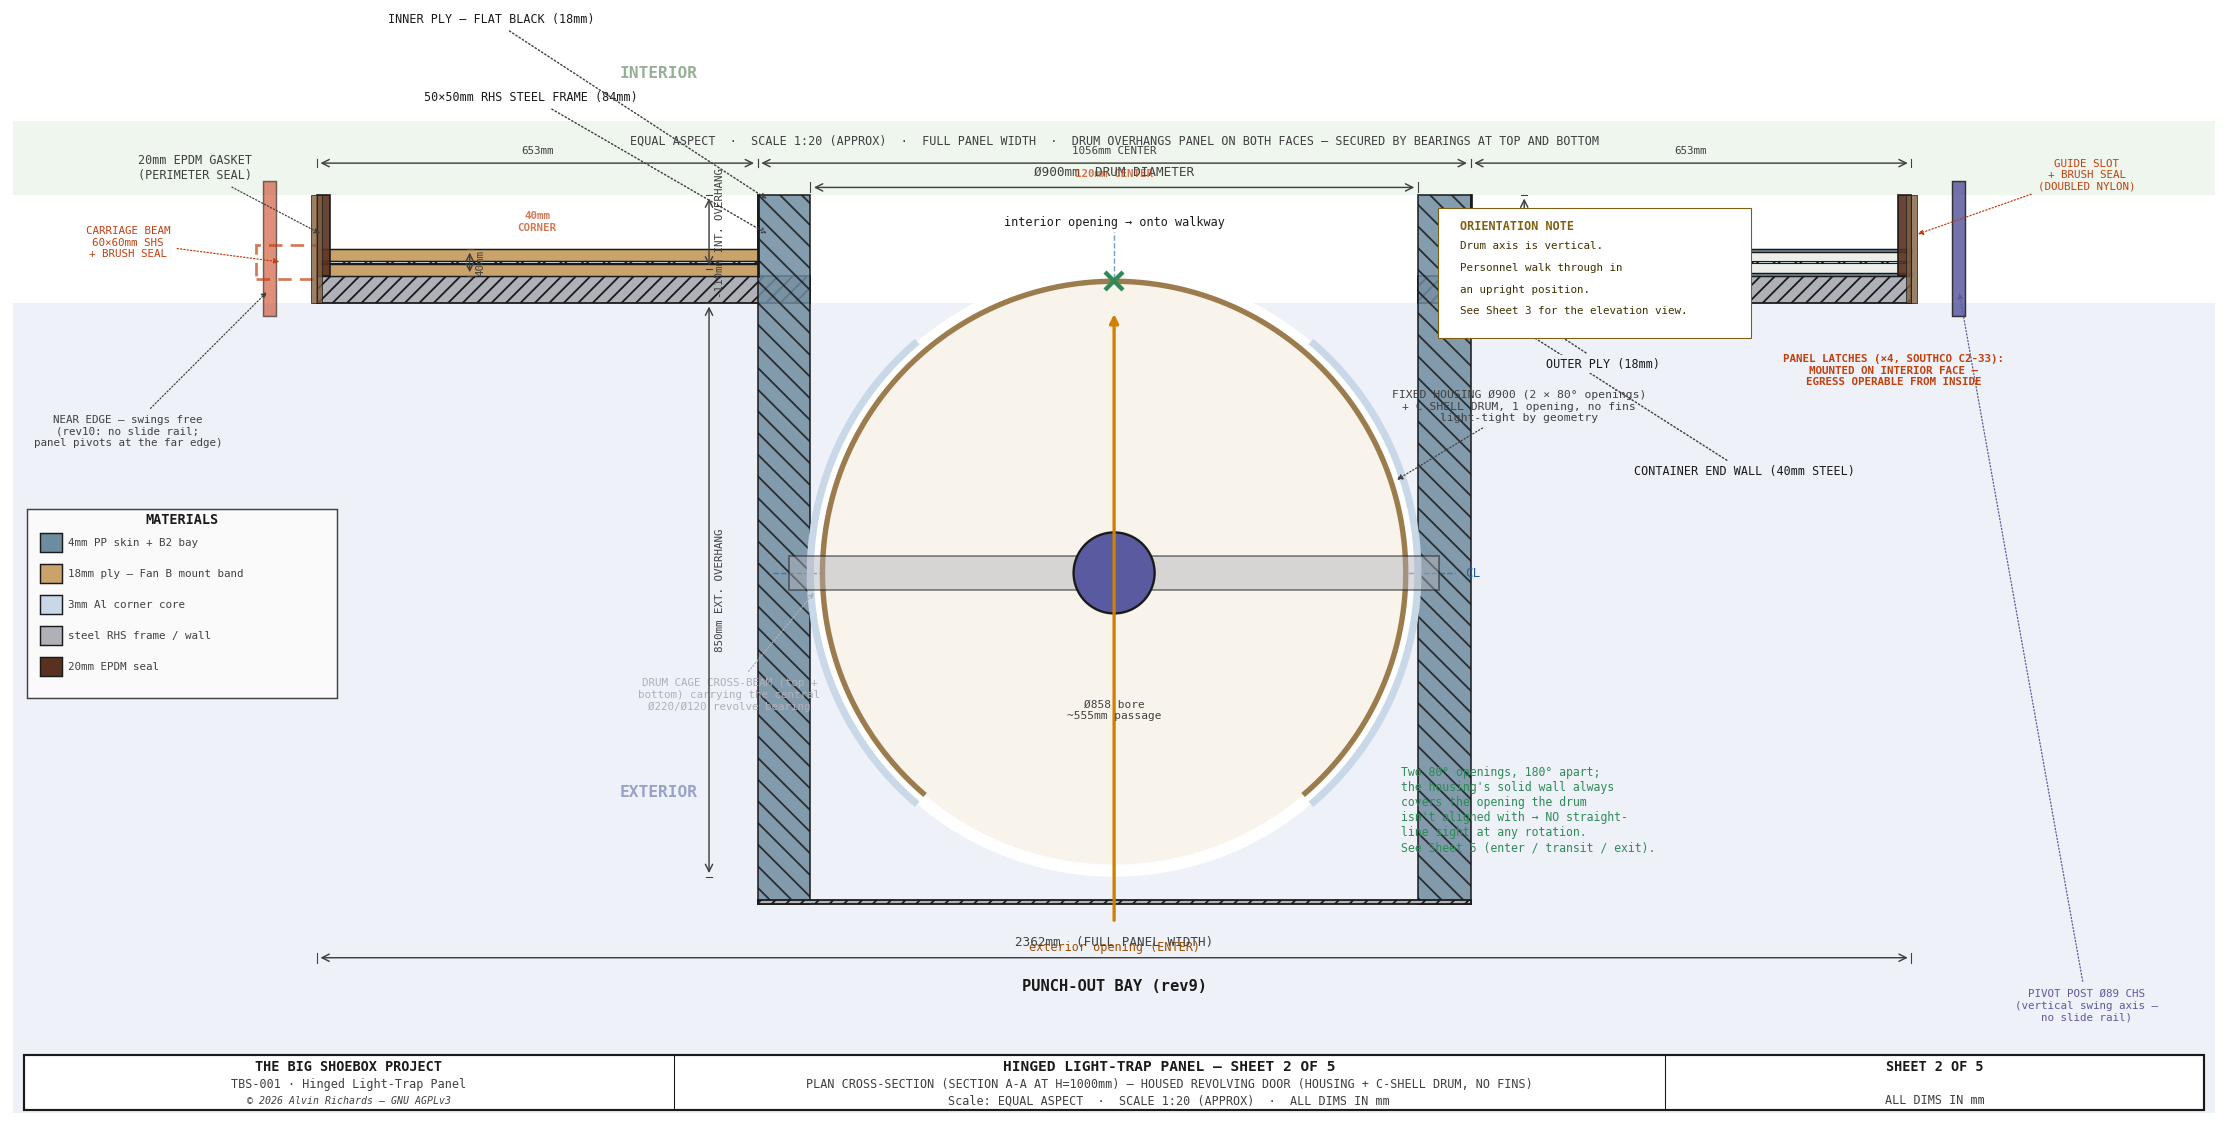
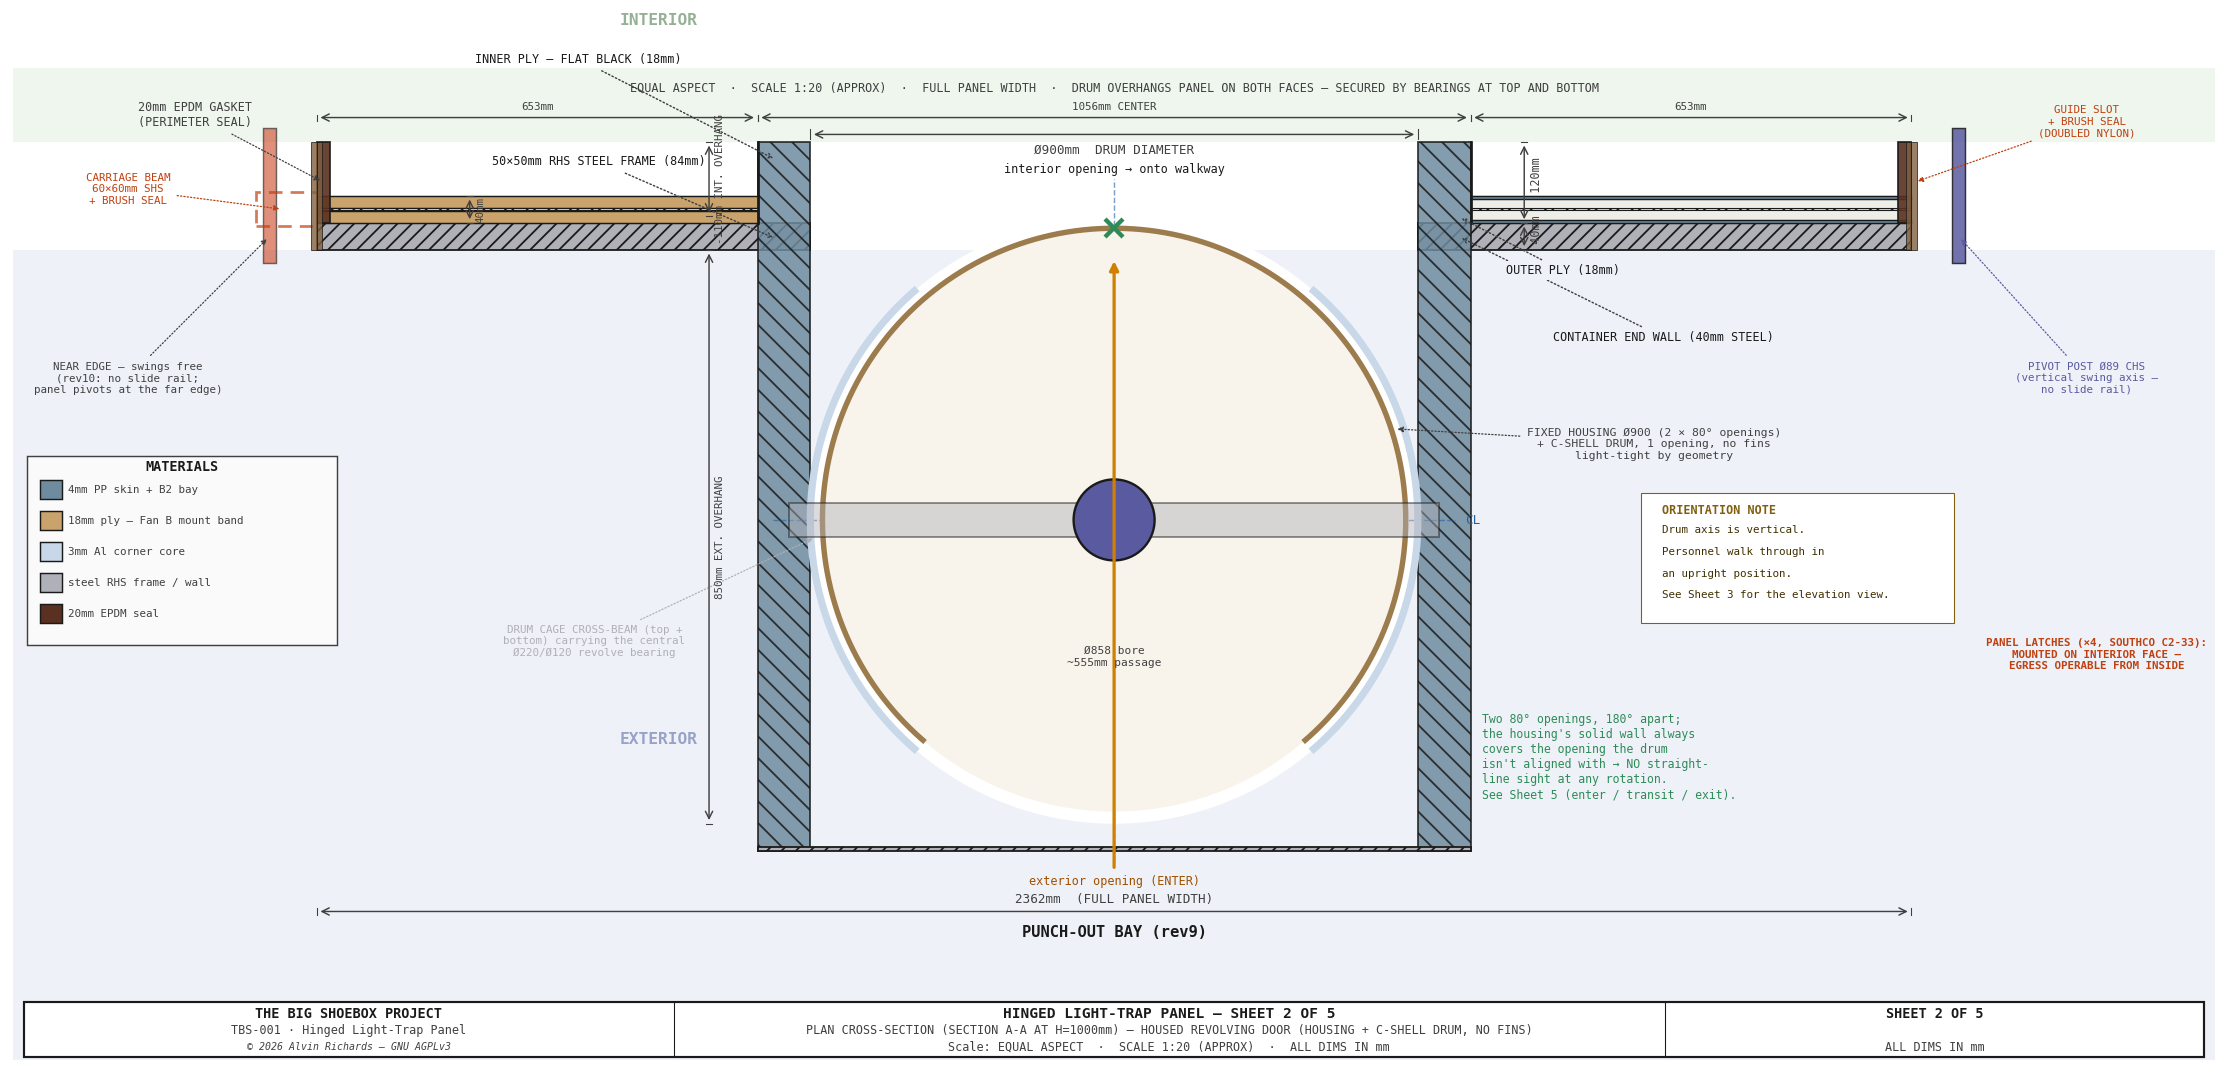
Tidy labels

diff --git a/src/generators/generate_hingepanel_diagram.py b/src/generators/generate_hingepanel_diagram.py
@@ -158,7 +158,7 @@ def sheet1():
         ax.plot([cx, cx], [0, PH], color="#A000A0", lw=2.6, ls=(0, (5, 2)), zorder=11)
         ax.text(cx, PH + 35, f"CUT @ Yd{cx}\n(fixed ↔ swing)", color="#A000A0", fontsize=6,
                 ha="center", va="bottom", fontweight="bold", **FONT, zorder=15)
-    leader(ax, (_FAR + (PW - _FAR) / 2, PH / 2 - 250), (PW + 180, PH / 2 - 250),
+    leader(ax, (_FAR + (PW - _FAR) / 2, PH / 2 - 250), (PW + 325, PH / 2 - 250),
            "FIXED FAR STRIP (Yd2287–2362)\nbolted to the door frame —\ndoes NOT swing", col="#6a4010", fs=6)
     leader(ax, (_CUT / 2, FR + 250), (-220, FR + 250),
            "FIXED LEFT PANEL (Yd0–180)\nbolted to the door frame —\ndoes NOT swing", col="#6a4010", fs=6)
@@ -295,7 +295,7 @@ def sheet1():
     # Panel hinges on left (X=0); right edge is the free edge.
     # Opens outward — away from interior camera equipment.
     leader(ax, (PW, PH * 0.36),
-           (PW + 275, PH * 0.36),
+           (PW + 275, PH * 0.25),
            "OPENS OUTWARD\n(180° SWING —\nCLEAR OF INTERIOR\nEQUIPMENT)",
            col="#204080", fw="bold")
 
@@ -501,7 +501,7 @@ def sheet2():
                 ls=(0, (4, 2)), zorder=4, alpha=0.7)
 
     # ── Layer labels (leaders from center zone) ───────────────────────────────
-    LBL_OFF = 130
+    LBL_OFF = 70
     lbl_x_r = D_XR + 60
     for ly, lbl, off in [
         (Y0_W + WALL_T / 2,  f"CONTAINER END WALL ({WALL_T}mm STEEL)", 2 * LBL_OFF),
@@ -512,10 +512,10 @@ def sheet2():
                     fontsize=6.5, color=C_OUT, ha="left", va="top", **FONT,
                     arrowprops=dict(arrowstyle="->", linestyle=':', color=C_DIM, lw=0.8),
                     bbox=dict(fc="#EEF2F8", ec="none", pad=1.5), zorder=15)
-    lbl_x_l = D_XL - 60
+    lbl_x_l = D_XL - 50
     for ly, lbl, off in [
-        (Y0_FR + FRAME_T / 2, f"50×50mm RHS STEEL FRAME ({FRAME_T}mm)", 1.5 * LBL_OFF),
-        (Y0_PL2 + PLY_T / 2,  f"INNER PLY — FLAT BLACK ({PLY_T}mm)",    2 * LBL_OFF),
+        (Y0_FR - FRAME_T / 2, f"50×50mm RHS STEEL FRAME ({FRAME_T}mm)", 1.5 * LBL_OFF),
+        (Y0_PL2 - PLY_T / 2,  f"INNER PLY — FLAT BLACK ({PLY_T}mm)",    2 * LBL_OFF),
     ]:
         ax.annotate(lbl, xy=(lbl_x_l, ly),
                     xytext=(lbl_x_l - off, ly + off),
@@ -576,7 +576,7 @@ def sheet2():
                             fc="#806040", ec=C_OUT, lw=0.5, zorder=6, alpha=0.8))
 
     leader(ax, (rail_right_x + RAIL_W / 2, Y0_W + WALL_T / 2),
-           (rail_right_x + 200, Y_LO + 160),
+           (rail_right_x + 200, Y_HI - 460),
            "PIVOT POST Ø89 CHS\n(vertical swing axis —\nno slide rail)", col="#5A5AA0", fs=6)
     leader(ax, (PW + brush_w / 2, Y0_PL + PT / 2),
            (rail_right_x + 200, Y_HI - 80),
@@ -612,7 +612,7 @@ def sheet2():
                            fc=C_STEEL, ec=C_OUT, lw=1.1, alpha=0.45, zorder=11))
     # revolve bearing — CENTERED on the drum axis (the bore label is offset below it instead)
     ax.add_patch(Circle((D_CX, D_CY), 60, fc="#5A5AA0", ec=C_OUT, lw=1.3, zorder=12))
-    leader(ax, (_CGL + 40, D_CY - cb_t / 2), (D_XL - 120, D_CY - DR * 0.4),
+    leader(ax, (_CGL + 40, D_CY - cb_t / 2), (D_XL - 320, D_CY - DR * 0.4),
            "DRUM CAGE CROSS-BEAM (top +\nbottom) carrying the central\nØ220/Ø120 revolve bearing", col=C_STEEL, fs=6)
     # daylight ray at ENTER: enters bore from exterior, blocked at interior by drum
     ax.annotate("", xy=(D_CX, D_CY + LT_DRUM_OR * 0.9), xytext=(D_CX, D_YB - 70),
@@ -623,12 +623,12 @@ def sheet2():
             fontsize=6.2, ha="center", va="center", **FONT, zorder=15)
 
     # Opening labels + component leaders
-    ax.text(D_CX, D_YB - 95, "exterior opening (ENTER)", color="#A05000",
+    ax.text(D_CX, D_YB - 75, "exterior opening (ENTER)", color="#A05000",
             fontsize=6.5, ha="center", va="top", **FONT, zorder=15)
     ax.text(D_CX, D_YT + 60, "interior opening → onto walkway", color=C_OUT,
             fontsize=6.5, ha="center", va="bottom", **FONT, zorder=15)
     leader(ax, (D_CX + DR * 0.92, D_CY + DR * 0.30),
-           (D_XR + 150, D_CY + DR * 0.55),
+           (D_XR + 350, D_CY + DR * 0.25),
            f"FIXED HOUSING Ø{int(DRUM_D)} (2 × {OD}° openings)\n"
            f"+ C-SHELL DRUM, 1 opening, no fins\nlight-tight by geometry", fs=6.3)
 
@@ -642,7 +642,7 @@ def sheet2():
             color=C_CL, fontsize=7, ha="left", va="center", **FONT, zorder=15)
 
     # ── Light-tightness note ──────────────────────────────────────────────────
-    ax.text(D_XR - 25, D_CY - DR * 0.78,
+    ax.text(D_XR + 95, D_CY - DR * 0.78,
             f"Two {OD}° openings, 180° apart;\nthe housing's solid wall always\ncovers the opening the drum\n"
             "isn't aligned with → NO straight-\nline sight at any rotation.\nSee Sheet 5 (enter / transit / exit).",
             color="#2E8B57", fontsize=6.4, ha="left", va="center", **FONT, zorder=15)
@@ -652,7 +652,7 @@ def sheet2():
 
     # Drum diameter (horizontal)
     draw_dim_h(ax, D_XL, D_XR, D_YT + PAD_YT * 0.55,
-          f"Ø{DRUM_D}mm  DRUM DIAMETER", fs=7, offset=-25, font=FONT)
+          f"Ø{DRUM_D}mm  DRUM DIAMETER", fs=7, offset=-25, above=False, font=FONT)
     # Container wall thickness — arrow + inline label (no leader, avoids crossing
     # the nearby CONTAINER END WALL and OUTER PLY leader lines)
     draw_dim_v(ax, DIM_X_R, Y0_W, Y1_W,
@@ -670,31 +670,20 @@ def sheet2():
     draw_dim_v(ax, D_XL - 150, Y1_PL2, D_YT, f"{int(D_YT - Y1_PL2)}mm INT. OVERHANG", offset=15, fs=6, right=True, font=FONT)
 
     # Full panel width dimension
-    draw_dim_h(ax, 0, PW, Y_LO + 230, f"{PW}mm  (FULL PANEL WIDTH)", fs=7, offset=-25, font=FONT)
+    draw_dim_h(ax, 0, PW, Y_LO + 220, f"{PW}mm  (FULL PANEL WIDTH)", fs=7, offset=-15, font=FONT)
 
     # Zone width dimensions (above panel)
-    zone_dim_y = D_YT + PAD_YT * 0.85
+    zone_dim_y = D_YT + PAD_YT * 0.80
     draw_dim_h(ax, 0, STEP_YD_L, zone_dim_y-30,
-          f"{STEP_YD_L}mm", fs=6, offset=-20, font=FONT)
+          f"{STEP_YD_L}mm", fs=6, offset=-15, font=FONT)
     draw_dim_h(ax, STEP_YD_L, STEP_YD_R, zone_dim_y-30,
-          f"{STEP_YD_R - STEP_YD_L}mm CENTER", fs=6, offset=-20, font=FONT)
+          f"{STEP_YD_R - STEP_YD_L}mm CENTER", fs=6, offset=-15, font=FONT)
     draw_dim_h(ax, STEP_YD_R, PW, zone_dim_y-30,
-          f"{PW - STEP_YD_R}mm", fs=6, offset=-20, font=FONT)
+          f"{PW - STEP_YD_R}mm", fs=6, offset=-15, font=FONT)
 
     # Corner zone thickness dimension
     draw_dim_v(ax, STEP_YD_L / 2 - 100, Y1_W, CORN_Y_IN,
           f"{CORNER_T}mm", offset=15, fs=6, right=True, font=FONT)
-
-    # ── Zone labels ─────────────────────────────────────────────────────────────
-    ax.text(STEP_YD_L / 2, CORN_Y_IN + 25,
-            f"40mm\nCORNER", color="#C04010", fontsize=6, ha="center", va="bottom",
-            fontweight="bold", **FONT, zorder=15, alpha=0.7)
-    ax.text((STEP_YD_L + STEP_YD_R) / 2, Y1_PL2 + 25,
-            f"120mm CENTER", color="#C04010", fontsize=6, ha="center", va="bottom",
-            fontweight="bold", **FONT, zorder=15, alpha=0.7)
-    ax.text((STEP_YD_R + PW) / 2, CORN_Y_IN + 25,
-            f"40mm\nCORNER", color="#C04010", fontsize=6, ha="center", va="bottom",
-            fontweight="bold", **FONT, zorder=15, alpha=0.7)
 
     # ── Scale and note ────────────────────────────────────────────────────────
     ax.text(PW / 2, Y_HI - 20,
@@ -703,8 +692,8 @@ def sheet2():
             color=C_DIM, fontsize=6.5, ha="center", va="top", **FONT, zorder=15)
 
     # ── Orientation clarification note (standard draw_notes block, top-right) ──
-    OB_X = D_XR + 30
-    OB_Y = D_YT - 100
+    OB_X = D_XR + 330
+    OB_Y = D_YT - 600
     OB_W = 450   # retained: the latch note below positions itself off the note width
     draw_notes(ax, [
         "ORIENTATION NOTE",
@@ -1362,7 +1351,7 @@ def sheet5():
 
     ax.text(1000, 1415, "REVOLVING-DOOR LIGHT LOCK (rev 8) — PASSES BOTH TESTS",
             ha="center", fontsize=15, fontweight="bold", color=C_OUT, **FONT)
-    ax.text(1000, 1378, "Fixed Ø900 housing (two 80° openings, 180° apart) + single-opening C-shell drum, NO fins",
+    ax.text(1000, 1378, "Fixed Ø900 housing (two 80° openings, 180° apart) + single-opening C-shell drum",
             ha="center", fontsize=9, color=GREEN, **FONT)
     ax.plot([-130, 2130], [660, 660], color=C_DIM, lw=1.0, ls=(0, (6, 4)), zorder=3)
 
